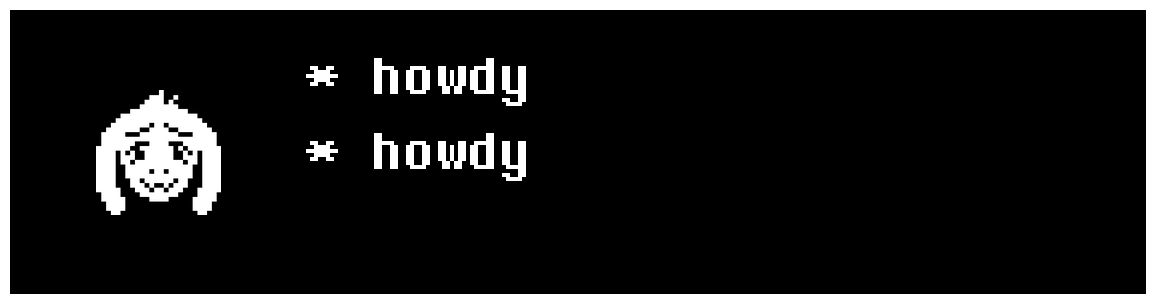
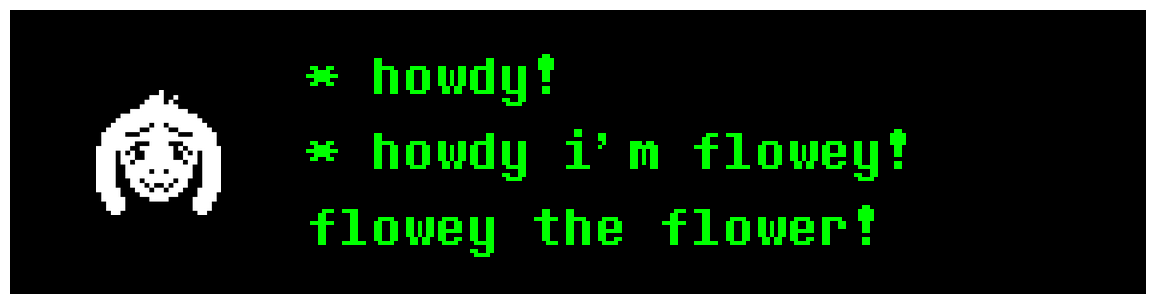
basic tokenization functionality

diff --git a/cmd/main.go b/cmd/main.go
@@ -1,21 +1,18 @@
 package main
 
 import (
-	"image"
 	"log"
 
-	"github.com/golang/freetype/truetype"
-	"github.com/saihnii4/utdr-video-creator/v2/cmd/ctx"
+	"github.com/saihnii4/utdr-video-creator/v2/cmd/context"
 	"github.com/saihnii4/utdr-video-creator/v2/pkg/utdr/image_utils"
 	"github.com/saihnii4/utdr-video-creator/v2/pkg/utdr/image_utils/portraits/asriel"
-	"golang.org/x/image/font"
 )
 
 var ctx *imageutils.Context
 
 func init() {
 	var err error
-	ctx, err := ctx.Init()
+	ctx, err = context.Init()
 	if err != nil {
 		log.Fatal(err)
 		panic(err)
@@ -33,13 +30,22 @@ func main() {
 
 	ctx.DrawTextbox()
 	ctx.DrawPortrait(asriel.Portrait)
-	ctx.DrawDialogue("howdy", &imageutils.NewSentenceOpts)
-	ctx.NewLine(&imageutils.DialogueNewLineOptions{
-		NextLineIsSentence: true,
-	})
-	ctx.DrawDialogue("howdy", &imageutils.NewSentenceOpts)
+	err = ctx.DrawDialogue("howdy!\nhowdy i'm flowey! flowey the flower!", nil)
+	if err != nil {
+		panic(err)
+	}
 	ctx.Finalize()
 	ctx.ExportAsFile("out.png")
+
+	// ctx.DrawTextbox()
+	// ctx.DrawPortrait(asriel.Portrait)
+	// ctx.DrawText("howdy", &imageutils.NewSentenceOpts)
+	// ctx.NewLine(&imageutils.DialogueNewLineOptions{
+	// 	NextLineIsSentence: true,
+	// })
+	// ctx.DrawText("howdy", &imageutils.NewSentenceOpts)
+	// ctx.Finalize()
+	// ctx.ExportAsFile("out.png")
 
 	log.Println("success")
 }

diff --git a/pkg/utdr/image_utils/dialogue.go b/pkg/utdr/image_utils/dialogue.go
@@ -2,6 +2,7 @@ package imageutils
 
 import (
 	"errors"
+	"strings"
 
 	"golang.org/x/image/math/fixed"
 )
@@ -31,9 +32,47 @@ func (ctx *Context) checkDialogueFlags() error {
 }
 
 func (ctx *Context) DrawDialogue(text string, opts *DialogueDrawOptions) error {
+	lines := strings.SplitSeq(text, "\n")
+	for line := range lines {
+		words := strings.Split(line, " ")
+		for i, word := range words {
+			var err error
+			if i == 0 {
+				err = ctx.DrawText(word, &NewSentenceOpts)
+			} else {
+				err = ctx.DrawText(word, nil)
+			}
+			ctx.DrawText(" ", nil)
+
+			if err != nil {
+				if !errors.Is(err, DrawOverflowError) {
+					return err
+				}
+
+				ctx.NewLine(&DialogueNewLineOptions{
+					NextLineIsSentence: false,
+				})
+				ctx.DrawText(word, nil)
+				ctx.DrawText(" ", nil)
+			}
+		}
+		ctx.NewLine(&DialogueNewLineOptions{
+			NextLineIsSentence: true,
+		})
+	}
+	return nil
+}
+
+func (ctx *Context) DrawText(text string, opts *DialogueDrawOptions) error {
 	err := ctx.checkDialogueFlags()
 	if err != nil {
 		return err
+	}
+
+	textWidth := ctx.FontDrawer.MeasureString(text)
+
+	if ctx.FontDrawer.Dot.X+textWidth+verticalPadding > fixed.I(textboxWidth) {
+		return DrawOverflowError
 	}
 
 	if opts != nil && opts.IsSentence {

diff --git a/cmd/context/init.go b/cmd/context/init.go
@@ -1,7 +1,8 @@
-package ctx
+package context
 
 import (
 	"image"
+	"image/color"
 
 	"github.com/golang/freetype/truetype"
 	imageutils "github.com/saihnii4/utdr-video-creator/v2/pkg/utdr/image_utils"
@@ -24,12 +25,14 @@ func Init() (*imageutils.Context, error) {
 		return nil, err
 	}
 
+	color := color.RGBA{0, 255, 0, 255}
+
 	ctxBuilder := imageutils.ContextBuilder{
 		Hinting:     font.HintingFull,
 		Font:        utFont,
 		FontSize:    fontSize,
 		LineSpacing: lineSpacing,
-		FontSource:  image.White,
+		FontSource:  image.NewUniform(color),
 		DPI:         dpi,
 	}
 

diff --git a/pkg/utdr/image_utils/constants.go b/pkg/utdr/image_utils/constants.go
@@ -1,8 +1,12 @@
 package imageutils
 
 import (
+	"errors"
+
 	"golang.org/x/image/math/fixed"
 )
+
+var DrawOverflowError = errors.New("overflow error while drawing")
 
 var (
 	textboxHeight         = 152 * 2

diff --git a/pkg/utdr/image_utils/token.go b/pkg/utdr/image_utils/token.go
@@ -1,0 +1,1 @@
+package imageutils
